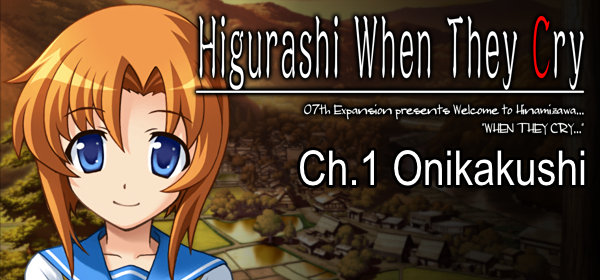
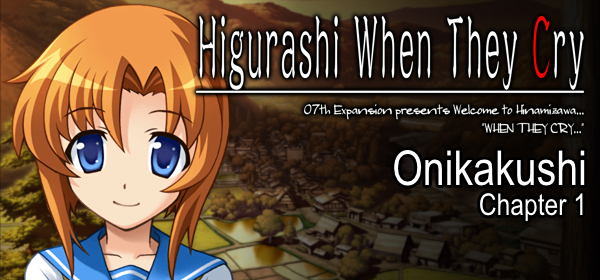
Update headers
* More legible and informative Umineko headers
* Added banner to Tsubasa/Hane/Saku: "Legacy Patch"
* index.js updated to call PNGs instead of JPGs

* Updated Higurashi headers to match Umineko headers
* Added banner to Console Arcs header: "Overwrites Himatsubushi"
* Fixed alignment of "Console Arcs" text

* PNGs optimized with optipng

Changed region(s): [[0.48, 0.5143, 0.63, 0.6857], [0.78, 0.6857, 0.99, 0.8]]

diff --git a/httpGUI/python-patcher-index.js b/httpGUI/python-patcher-index.js
@@ -26,23 +26,23 @@ window.onload = function onWindowLoaded() {
       uniqueSubMods: [],
       subModExtraProperties: {
         'Umineko Question (Ch. 1-4)': {
-          img: 'img/games/header_umineko_question.jpg',
+          img: 'img/games/header_umineko_question.png',
           dataFilter: 'Question Arcs',
         },
         'Umineko Answer (Ch. 5-8)': {
-          img: 'img/games/header_umineko_answer.jpg',
+          img: 'img/games/header_umineko_answer.png',
           dataFilter: 'Answer Arcs',
         },
         'Umineko Tsubasa': {
-          img: 'img/games/header_umineko_tsubasa.jpg',
+          img: 'img/games/header_umineko_tsubasa.png',
           dataFilter: 'Bonus Content',
         },
         'Umineko Hane': {
-          img: 'img/games/header_umineko_hane.jpg',
+          img: 'img/games/header_umineko_hane.png',
           dataFilter: 'Bonus Content',
         },
         'Umineko Saku': {
-          img: 'img/games/header_umineko_saku.jpg',
+          img: 'img/games/header_umineko_saku.png',
           dataFilter: 'Bonus Content'
         },
         'Console Arcs': {
